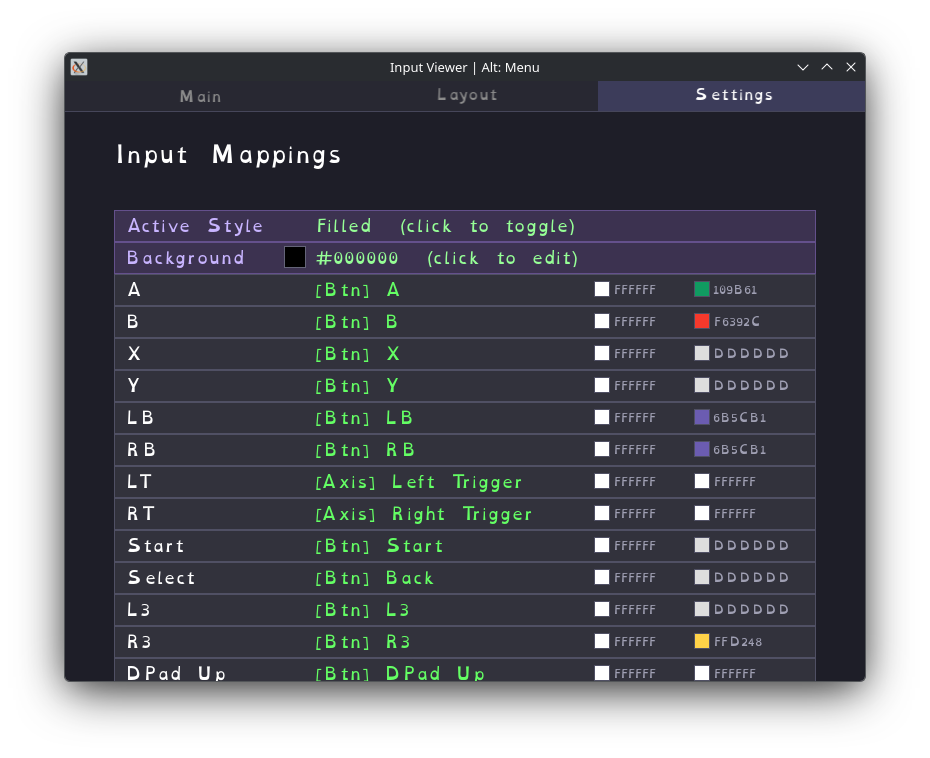
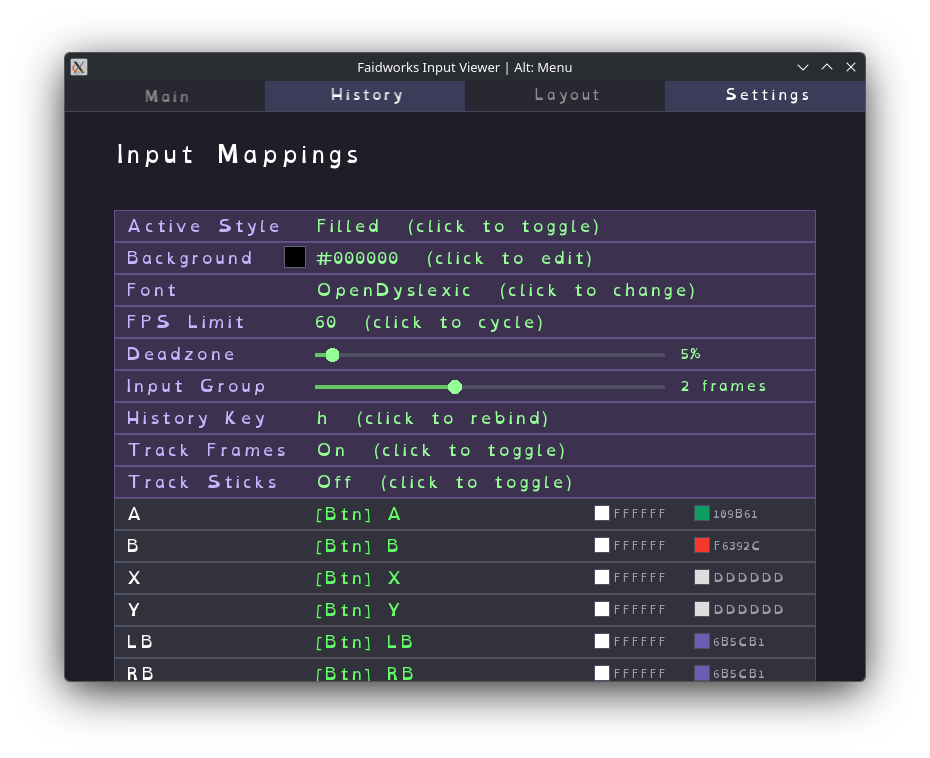
update readme to include history

diff --git a/README.md b/README.md
@@ -39,6 +39,12 @@ Drag elements to reposition them. The layout is saved automatically on exit.
 
 ![Layout tab](resources/layout.png)
 
+### History
+
+Shows a scrolling log of recent inputs with frame durations. Each row displays which buttons were held and how long since the previous input.
+
+![History tab](resources/history.png)
+
 ### Settings
 
 Configure input mappings, active style (filled/pressed), background color, per-button colors, and font.
